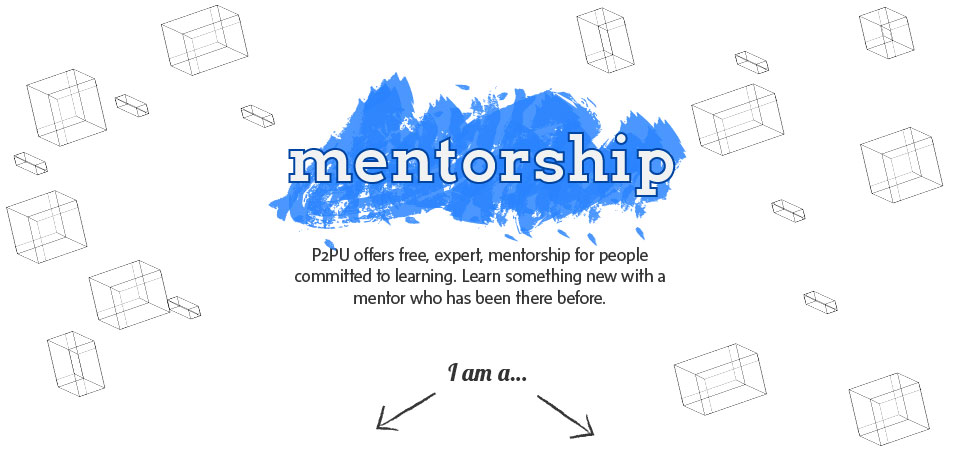
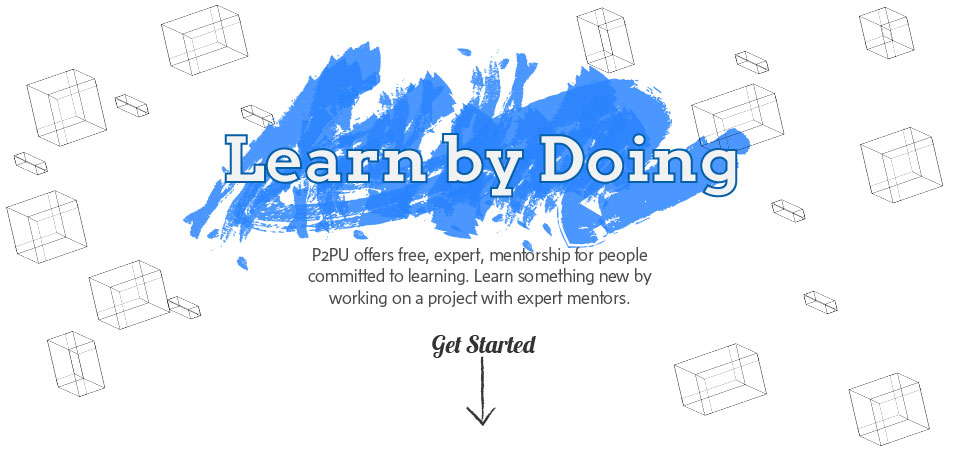
Updated homepage graphics.

diff --git a/app/templates/index.html b/app/templates/index.html
@@ -5,20 +5,13 @@
 <div class="container">
     <div class="row" style="background: url('/static/images/homepage-background.jpg') no-repeat;">
         <div class="nine columns centered">
-            <div align="center" style="padding: 230px 0;"></div>
-            <div class="row" style="margin-bottom: -80px;">
+            <div align="center" style="padding: 180px 0 250px 0 ;"></div>
+            <div class="row" style="margin-bottom: -50px;">
                 <div class="twelve columns">
                     <div class="row">
-                        <div class="six columns">
-                            <div class="roundedbox small">
-                                <h3 style="display: inline-block;">Student</h3>
-                                <a href="{% url signup "student" %}" class="nice radius blue button" style="margin-left: 10px;">Signup »</a>
-                            </div>
-                        </div>
-                        <div class="six columns">
-                            <div class="roundedbox small">
-                                <h3 style="display: inline-block;">Mentor</h3>
-                                <a href="{% url signup "mentor" %}" class="nice radius blue button" style="margin-left: 10px;">Signup »</a>                    
+                        <div class="six columns centered">
+                            <div class="roundedbox small" align="center" style="border-radius: 100px;">
+                                <a href="{% url signup "student" %}" class="nice radius blue button">Start a Project Today »</a>
                             </div>
                         </div>
                     </div>
@@ -31,10 +24,10 @@
     <div class="container">
         <div class="row">
             <div class="twelve columns">
-                <img src="/static/images/how-it-works.png" style="margin-top: 40px;" />
+                <img src="/static/images/how-it-works.png" />
                 <div class="row" style="margin-top: 50px;">
                     <div class="six columns">
-                        <h2><img src="/static/images/bullet.png" />Becoming a student</h2>
+                        <h2><img src="/static/images/bullet.png" />For students</h2>
                         <p>
                         Connect with a mentor to help you learn faster. Mentors are in 
                         high demand, so share your customized learning goal web page with 
@@ -43,11 +36,11 @@
                         <a href="{% url signup "mentor" %}" class="nice radius blue button">Signup »</a>
                     </div>
                     <div class="six columns">
-                        <h2><img src="/static/images/bullet.png" />Becoming a mentor</h2>
+                        <h2><img src="/static/images/bullet.png" />For mentors</h2>
                         <p>
-                            Being a good mentor is almost as hard as finding the right 
-                            people to mentor. The P2PU Mentorship program identifies the 
-                            best candidates looking for a mentor with your expertise.
+                        Post a project you are working on and learners can request
+                        to join. You get help with your project in exchange for
+                        mentoring learners with the skills needed for the project.
                         </p>
                         <a href="{% url signup "mentor" %}" class="nice radius blue button">Signup »</a>
                     </div>

diff --git a/app/urls.py b/app/urls.py
@@ -10,10 +10,7 @@ urlpatterns = patterns('',
     url(r'^login/$', 'accounts.views.login', name='login'),   
     url(r'^logout/$', 'accounts.views.logout', name='logout'),   
 
-    # Mentorship Request
-    #url(r'^mentorship-request/(?P<step>[\w-]+)/$', 'accounts.views.mentorship_request_form', name='mentorship_request_form'),   
-    #url(r'^mentorship-request/(?P<step>[\w-]+)/(?P<request_id>[0-9]+)/$', 'accounts.views.mentorship_request_form', name='mentorship_request_form'),
-    #url(r'^mentorship-requests/$', 'mentorships.views.mentorship', name='mentorship_category'),
+
     url(r'^mentorship/(?P<mentorship_id>[0-9]+)/log/$', 'mentorships.views.mentorship_log', name='mentorship_log'),   
     
     # Projects
@@ -24,8 +21,7 @@ urlpatterns = patterns('',
     url(r'^projects/(?P<project_id>[0-9]+)/support/$', 'mentorships.views.support', name='project_support'),   
     url(r'^projects/(?P<project_id>[0-9]+)/$', 'mentorships.views.projects', name='project_detail'),   
     
-    # Mentor Profile
-    url(r'^mentor/profile/edit/$', 'accounts.views.profile_form', name='profile_form'),   
+    url(r'^profile/edit/$', 'accounts.views.profile_form', name='profile_form'),   
     
     url(r'^admin/', include(admin.site.urls)),
 )

diff --git a/app/accounts/views.py b/app/accounts/views.py
@@ -5,8 +5,7 @@ from django.contrib.auth import login as auth_login, authenticate, logout as aut
 from django.shortcuts import redirect
 
 from accounts.forms import LoginForm, SponsorForm, ProfileForm
-from mentorships.models import JoinRequest, Project
-from mentorships.forms import JoinRequestForm, ProjectForm
+from mentorships.models import Project
 
 def signup(request, user_type):
     '''Create an account for the user that logged in with p2pu
